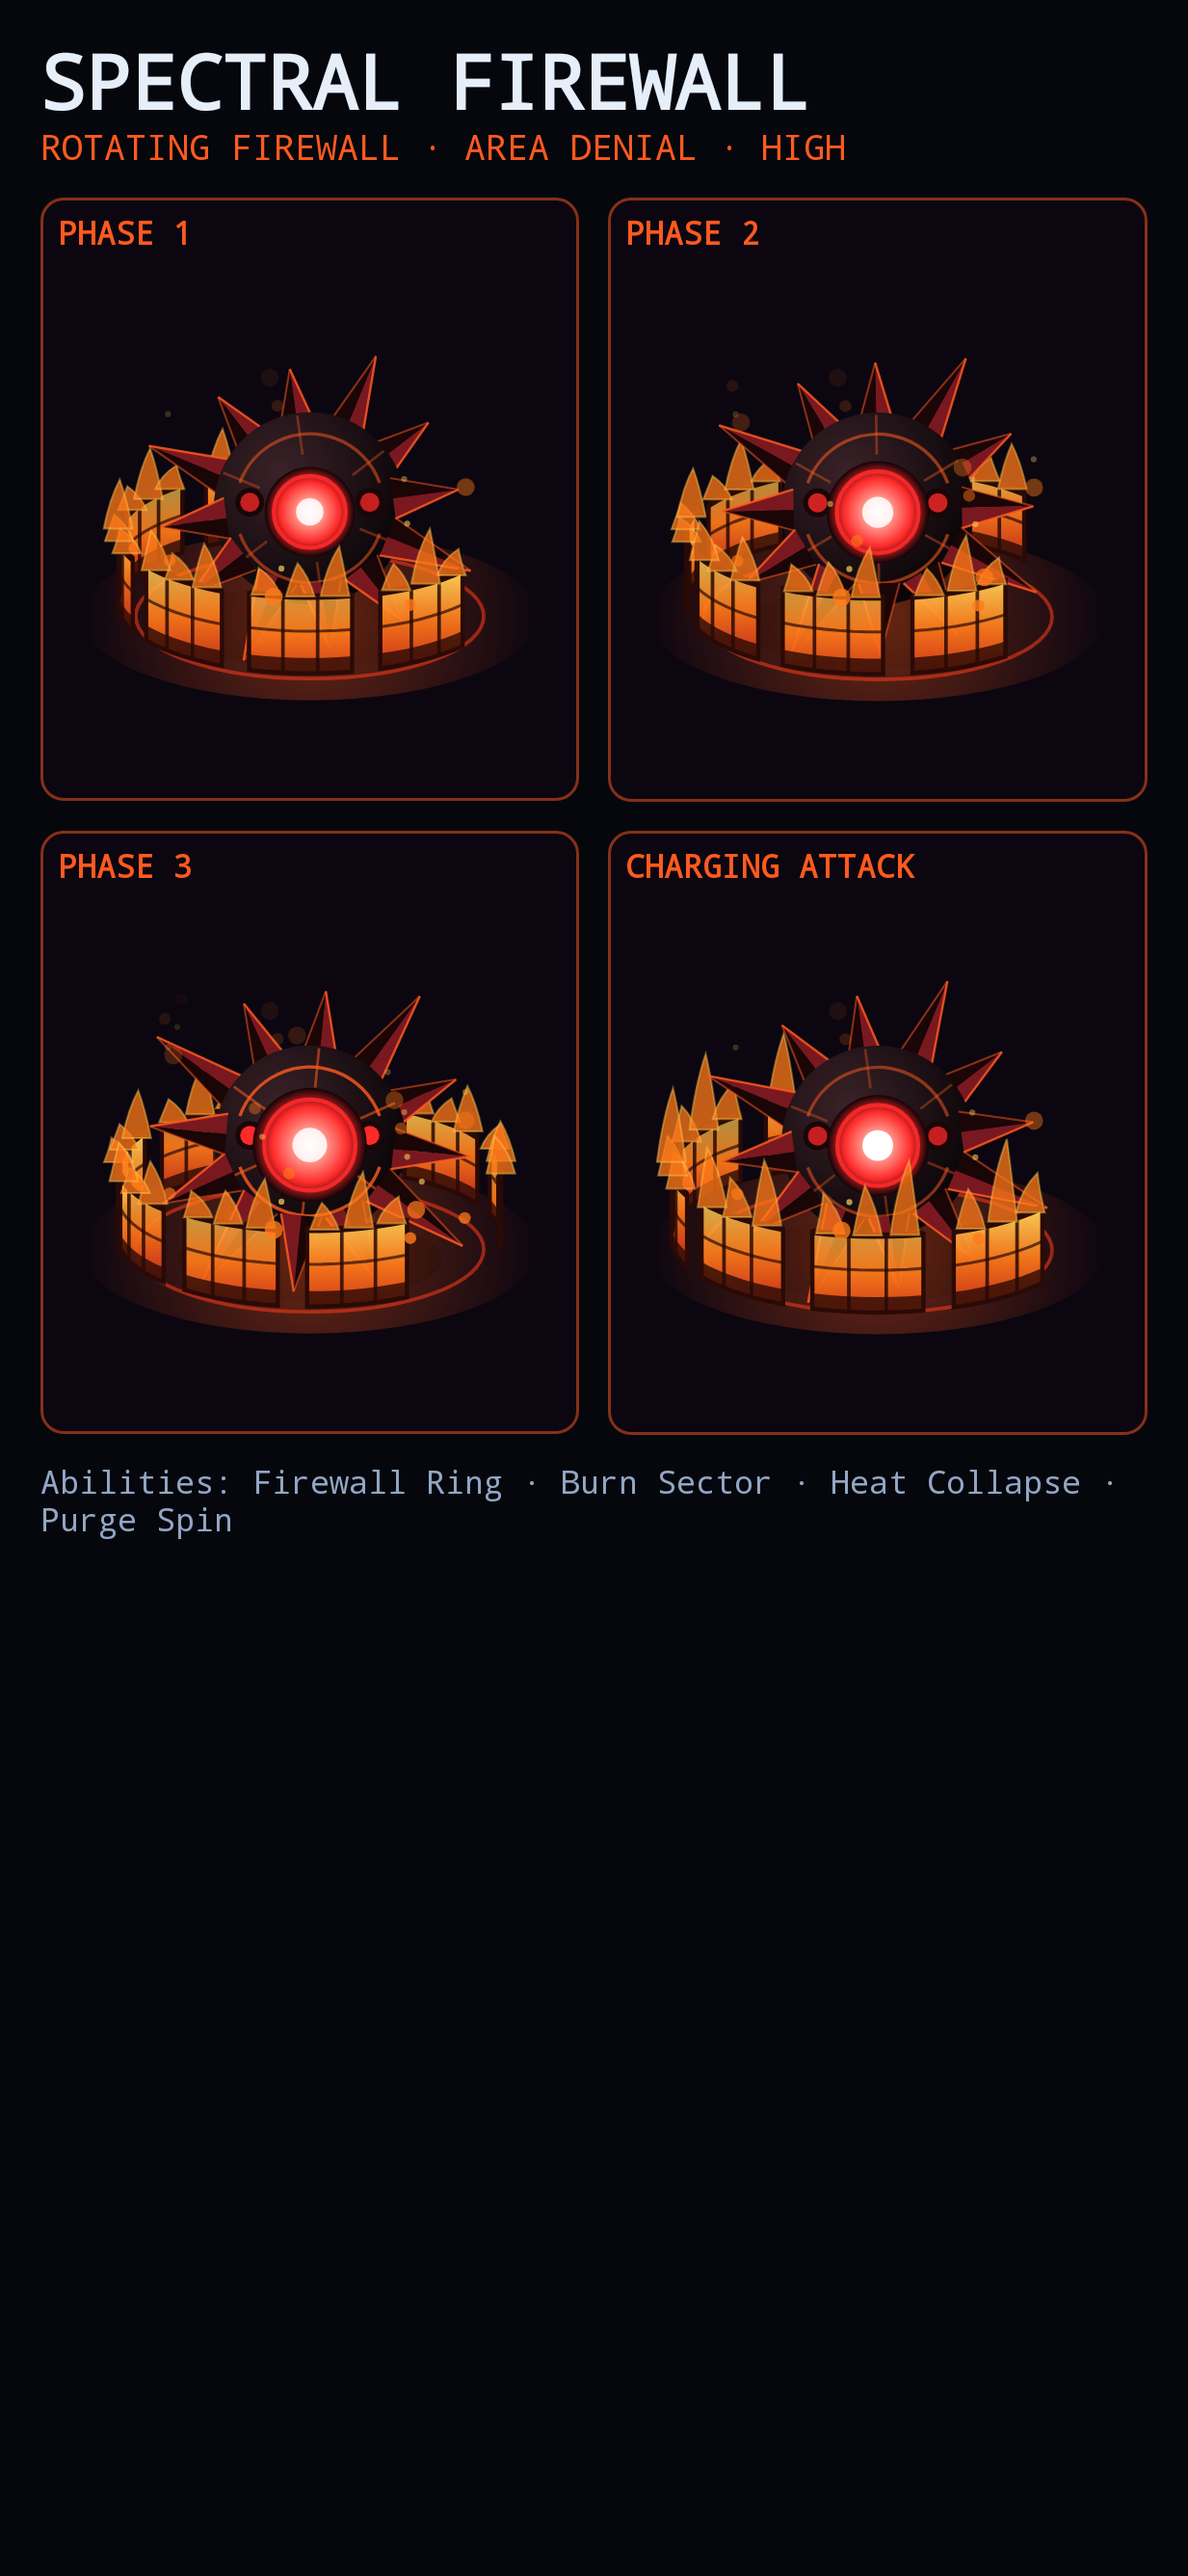
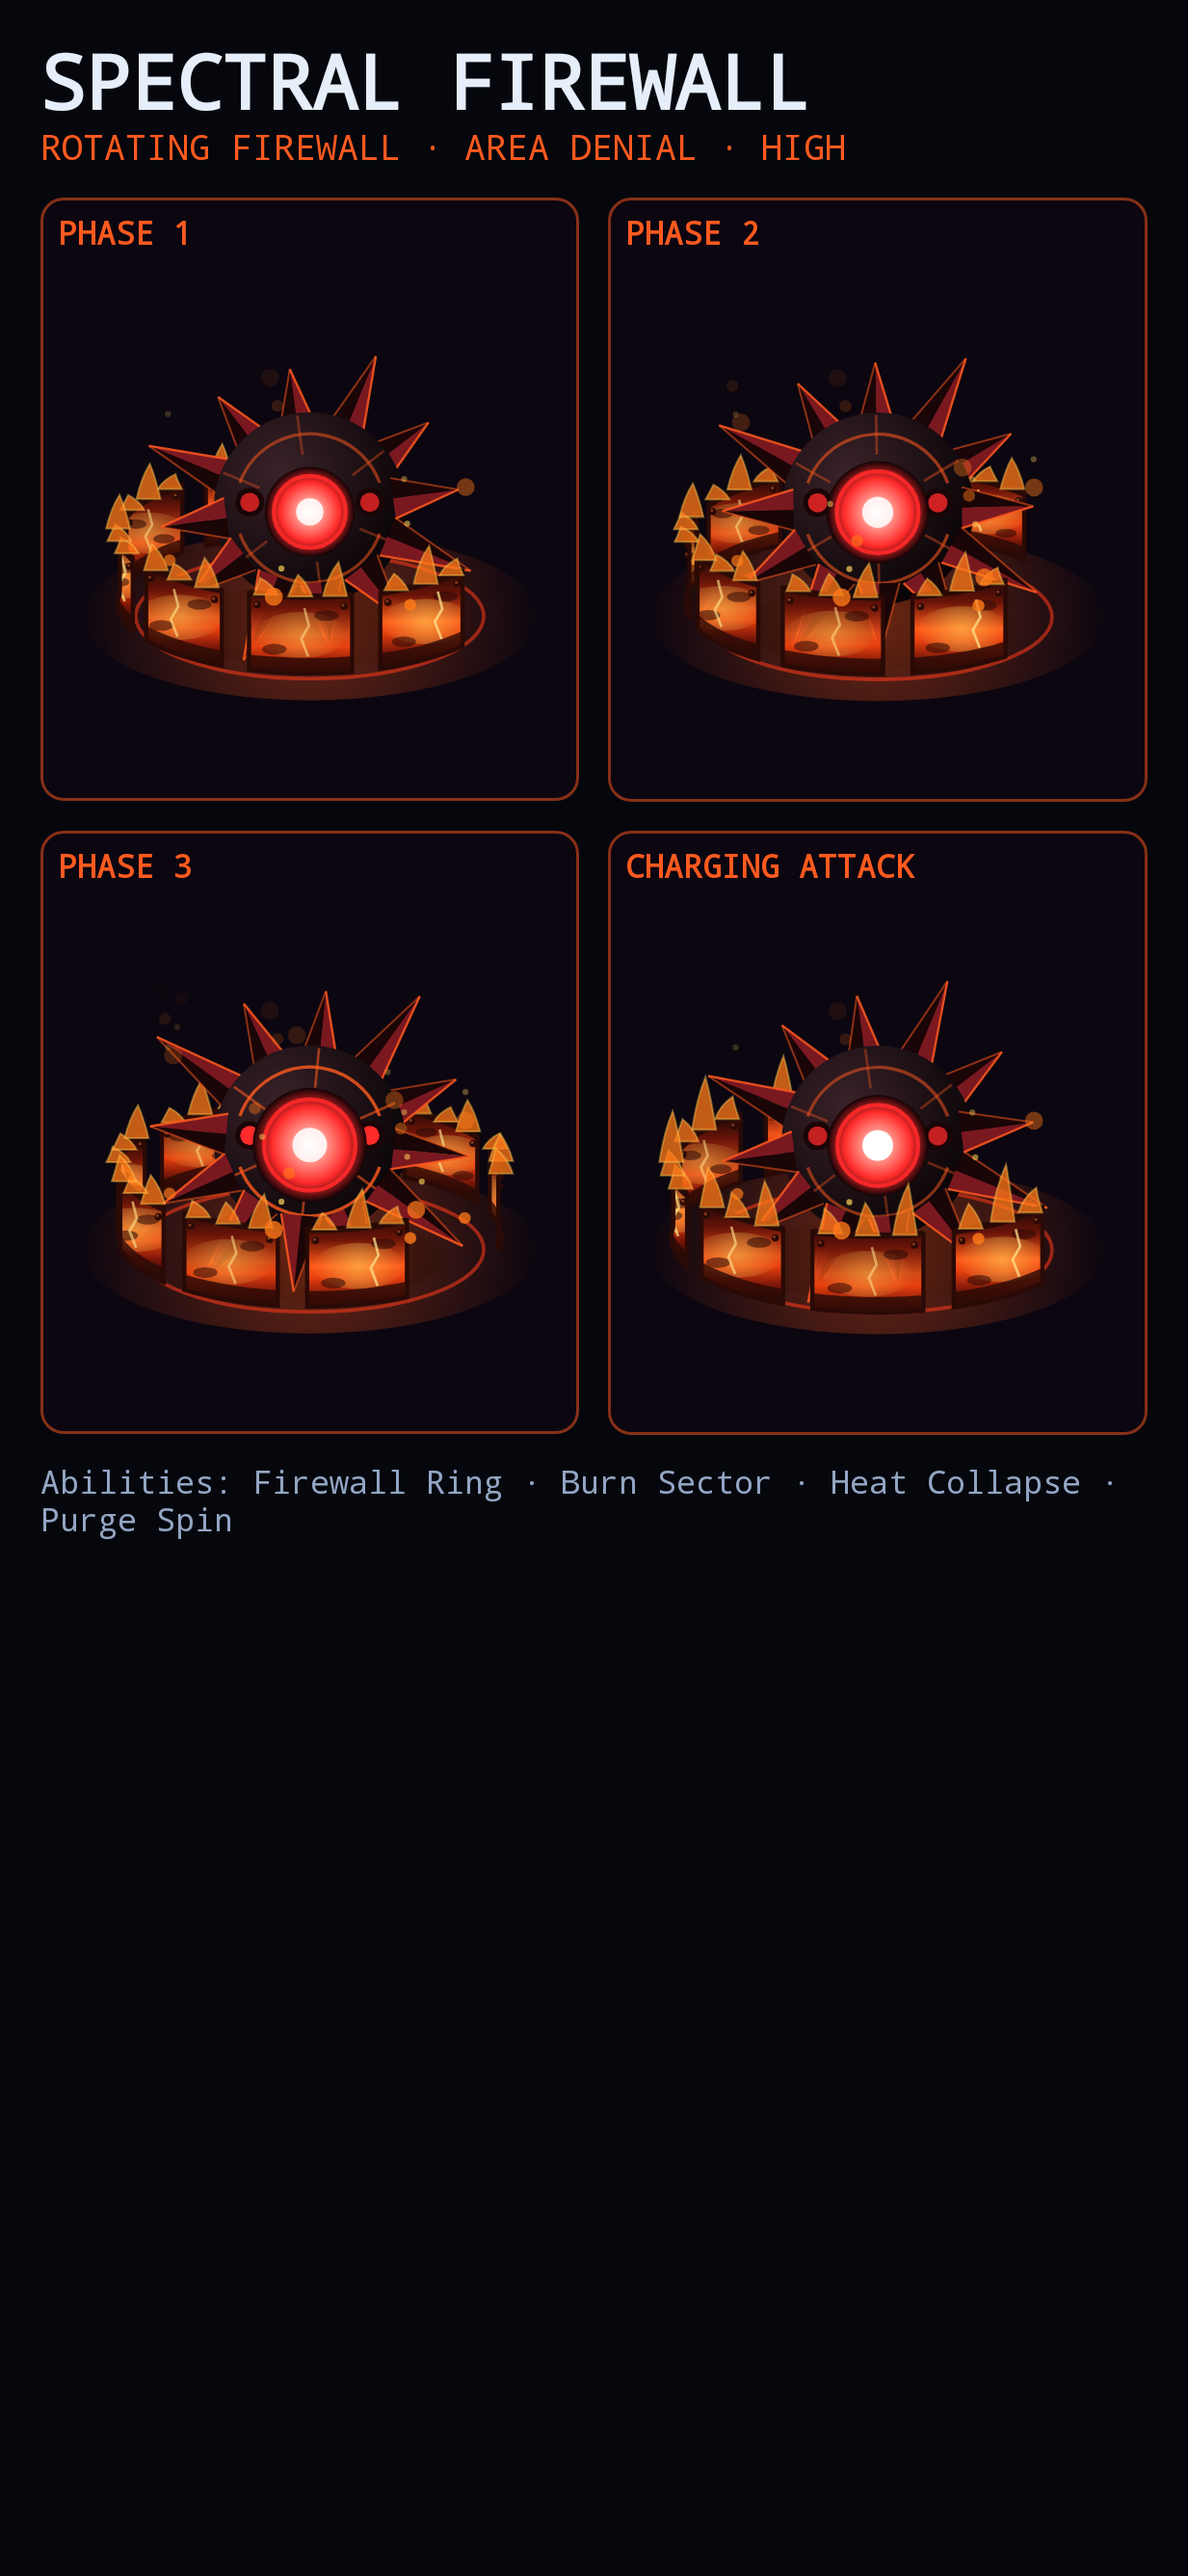
feat: Spectral Firewall revision 3 — solid charred red-hot metal firewall plates (no grid)
Claude-Session: https://claude.ai/code/session_01J4fYSi9rfQR62SLnfyrDCN

diff --git a/app/src/main/java/com/cyberoperative/game/ui/game/BossBodySpectralFirewall.kt b/app/src/main/java/com/cyberoperative/game/ui/game/BossBodySpectralFirewall.kt
@@ -7,6 +7,7 @@ import androidx.compose.ui.graphics.Color
 import androidx.compose.ui.graphics.Path
 import androidx.compose.ui.graphics.drawscope.DrawScope
 import androidx.compose.ui.graphics.drawscope.Stroke
+import androidx.compose.ui.graphics.drawscope.clipPath
 import kotlin.math.cos
 import kotlin.math.sin
 
@@ -73,7 +74,56 @@ internal object SpectralFirewallBody : BossBody {
             }
             slab.close()
             val gy = ground - r * 0.1f + sin(mid) * ringR * squash
-            drawPath(slab, Brush.verticalGradient(listOf(BRICK_HOT.copy(alpha = 0.95f * flick), BRICK.copy(alpha = 0.92f), BRICK_DEEP.copy(alpha = 0.88f)), startY = gy - h - r * 0.1f, endY = gy + r * 0.1f))
+            // Solid red-hot metal plate (owner, 2026-10-10: "less of a grid… solid blocks…
+            // charred metal red hot metal look"): charred top and bottom, a glowing heat band through the middle.
+            val top0 = gy - h - r * 0.08f
+            val bot0 = gy + r * 0.08f
+            drawPath(slab, Brush.verticalGradient(
+                0f to CHAR,
+                0.22f to Color(0xFF6A1408),
+                0.5f to Color(0xFFFF5A1A).copy(alpha = flick),
+                0.62f to Color(0xFFE8400F),
+                0.82f to Color(0xFF7A1608),
+                1f to CHAR,
+                startY = top0, endY = bot0
+            ))
+            // Glow, burn patches and the crack stay inside the plate.
+            clipPath(slab) {
+                // White-hot glow in the middle of the plate.
+                val hx = p.cx + cos(mid) * ringR
+                val hy = ground - r * 0.1f + sin(mid) * ringR * squash - h * 0.5f
+                drawOval(
+                    Brush.radialGradient(listOf(BRICK_HOT.copy(alpha = 0.55f * flick), BRICK_HOT.copy(alpha = 0f)), center = Offset(hx, hy), radius = h * 0.6f),
+                    Offset(hx - h * 0.6f, hy - h * 0.3f), Size(h * 1.2f, h * 0.6f)
+                )
+                // Scorch patches and a glowing heat crack.
+                for (k in 0 until 2) {
+                    val a = a0 + (a1 - a0) * (0.25f + 0.5f * k)
+                    val x = p.cx + cos(a) * ringR
+                    val y = ground - r * 0.1f + sin(a) * ringR * squash - h * (if (k == 0) 0.75f else 0.3f)
+                    drawOval(CHAR.copy(alpha = 0.55f), Offset(x - h * 0.16f, y - h * 0.07f), Size(h * 0.32f, h * 0.14f))
+                }
+                run {
+                    val a = a0 + (a1 - a0) * (0.35f + 0.3f * ((i * 0.37f) % 1f))
+                    val x = p.cx + cos(a) * ringR
+                    val yb = ground - r * 0.1f + sin(a) * ringR * squash
+                    val crack = Path().apply {
+                        moveTo(x, yb - h * 0.85f)
+                        lineTo(x + h * 0.06f, yb - h * 0.62f)
+                        lineTo(x - h * 0.04f, yb - h * 0.45f)
+                        lineTo(x + h * 0.05f, yb - h * 0.22f)
+                    }
+                    drawPath(crack, Color(0xFFFFE08A).copy(alpha = 0.75f * flick), style = Stroke(1.6f))
+                }
+            }
+            // Rivets at the top corners.
+            for (k in listOf(0.08f, 0.92f)) {
+                val a = a0 + (a1 - a0) * k
+                val x = p.cx + cos(a) * ringR
+                val y = ground - r * 0.1f + sin(a) * ringR * squash - h * 0.86f
+                drawCircle(CHAR, r * 0.03f, Offset(x, y))
+                drawCircle(Color(0xFF8A3A1A), r * 0.012f, Offset(x - r * 0.008f, y - r * 0.008f))
+            }
             // Charred base band along the bottom of the wall.
             val base = Path()
             for (k in 0..n) {
@@ -88,21 +138,6 @@ internal object SpectralFirewallBody : BossBody {
             }
             base.close()
             drawPath(base, CHAR.copy(alpha = 0.8f))
-            // Dark mortar: vertical seams and a horizontal course line.
-            for (k in 1 until 3) {
-                val a = a0 + (a1 - a0) * k / 3f
-                val x = p.cx + cos(a) * ringR
-                val yb = ground - r * 0.1f + sin(a) * ringR * squash
-                drawLine(CHAR.copy(alpha = 0.85f), Offset(x, yb - h), Offset(x, yb), 2.2f)
-            }
-            val course = Path()
-            for (k in 0..n) {
-                val a = a0 + (a1 - a0) * k / n
-                val x = p.cx + cos(a) * ringR
-                val y = ground - r * 0.1f + sin(a) * ringR * squash - h * 0.55f
-                if (k == 0) course.moveTo(x, y) else course.lineTo(x, y)
-            }
-            drawPath(course, CHAR.copy(alpha = 0.7f), style = Stroke(1.8f))
             // Charred outline and a dark cap along the top edge.
             drawPath(slab, CHAR, style = Stroke(2.6f))
             val cap = Path()
@@ -117,8 +152,8 @@ internal object SpectralFirewallBody : BossBody {
                 val a = a0 + (a1 - a0) * (k + 0.5f) / 3f
                 val x = p.cx + cos(a) * ringR
                 val yt = ground - r * 0.1f + sin(a) * ringR * squash - h
-                val fh = h * (0.35f + 0.4f * sin(t * 9f + i * 1.7f + k * 2.1f).coerceAtLeast(0f)) * (if (hot) 1.5f else 1f)
-                val fw = r * 0.12f
+                val fh = h * (0.22f + 0.3f * sin(t * 9f + i * 1.7f + k * 2.1f).coerceAtLeast(0f)) * (if (hot) 1.5f else 1f)
+                val fw = r * 0.1f
                 val flame = Path().apply {
                     moveTo(x - fw, yt)
                     quadraticTo(x - fw * 0.6f, yt - fh * 0.6f, x + sin(t * 6f + i + k) * fw * 0.5f, yt - fh)

diff --git a/docs/BOSS_EXPANSION_LOG.md b/docs/BOSS_EXPANSION_LOG.md
@@ -233,7 +233,7 @@ CONTROLLER / AREA CONTROL / HUNTER on these four).
 | Rootkit Apostle | 2026-10-10 (`docs/bosses/designs/rootkit_apostle_*`) | ✅ **FINAL**: body (rev 2) and attacks approved — "Approved; start on Nullshade Specter" | "Darker body, eye can glow dim to bright back and forth slowly and is bright when attack" |
 | Nullshade Specter | 2026-10-10 (`docs/bosses/designs/nullshade_*`) | ✅ body approved (rev 2, traced from owner reference) — "those look good". Attacks built ("The level should be extremely dark") — ✅ **FINAL**: "Approved; start on Ransom King" | Rev 1 rejected: "Not a fan of that design… trace as best as possible. There shouldn't be an outline really. Think DARKNESS GHOST"; eyes blink + faint light; "Fainter glow around the eyes… sharper"; "bigger eyes please" |
 | Ransom King | 2026-10-10 (`docs/bosses/designs/ransom_king_*`) | ✅ body approved (rev 3, evil cursed crown) — "Approved, build its attacks". Attacks built and sent (atk1–atk7) | "can the crown be bigger, sharper… crooked?" → "Not the orientation of the crown… looks like a cursed crown. realign and then try a different design that looks like an evil crown" |
-| Spectral Firewall | 2026-10-10 (`docs/bosses/designs/spectral_firewall_*`) | ⏳ revision 2 sent (taller slabs, darker accents) | Owner card: `boss-concepts/spectral_firewall_card.webp`; "the barriers should have darker accents and be slightly taller" |
+| Spectral Firewall | 2026-10-10 (`docs/bosses/designs/spectral_firewall_*`) | ⏳ revision 3 sent (solid charred red-hot metal plates, no grid) | Owner card: `boss-concepts/spectral_firewall_card.webp`; "the barriers should have darker accents and be slightly taller"; "less of a grid pattern… solid blocks but more of a charred metal red hot metal look" |
 
 ---
 
@@ -331,3 +331,4 @@ CONTROLLER / AREA CONTROL / HUNTER on these four).
     exposed window.
   - Build this with the attacks.
 - 2026-10-10 — Spectral Firewall revision 2: slabs 28% taller, with a charred outline, dark mortar seams and course line, a dark base band and a dark top cap.
+- 2026-10-10 — Spectral Firewall revision 3: solid plates with no brick seams. Charred metal top and bottom, a glowing heat band and a white-hot centre, burn patches, heat cracks and rivets (all clipped to the plate), smaller flames.
